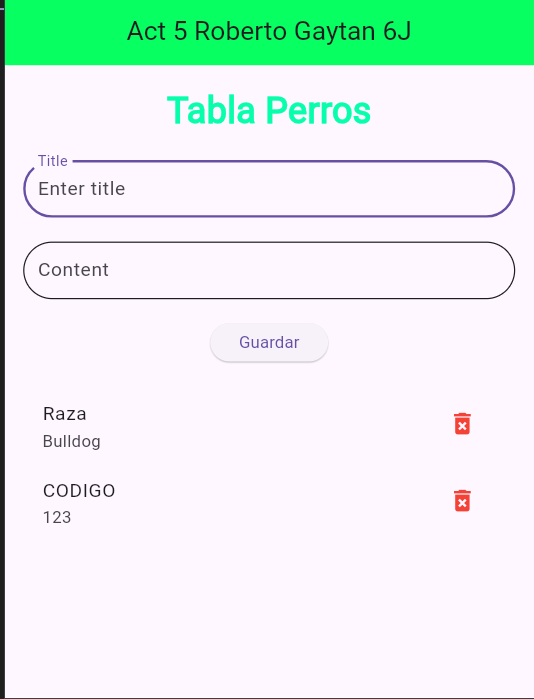
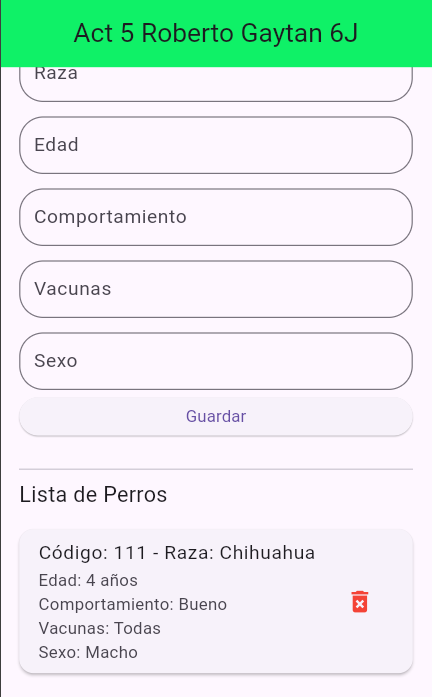
lll

diff --git a/lib/notes.dart b/lib/notes.dart
@@ -5,122 +5,150 @@ class Note extends StatefulWidget {
   const Note({super.key});
 
   @override
-  State<Note> createState() => _perrostate();
+  State<Note> createState() => _PerroState();
 }
 
-class _perrostate extends State<Note> {
-  final titlecontroller = TextEditingController();
-  final contentcontroller = TextEditingController();
+class _PerroState extends State<Note> {
+  final codigoController = TextEditingController();
+  final razaController = TextEditingController();
+  final edadController = TextEditingController();
+  final comportamientoController = TextEditingController();
+  final vacunasController = TextEditingController();
+  final sexoController = TextEditingController();
+
+  void _guardarPerro() async {
+    final codigo = codigoController.text.trim();
+    final raza = razaController.text.trim();
+    final edad = int.tryParse(edadController.text.trim());
+    final comportamiento = comportamientoController.text.trim();
+    final vacunas = vacunasController.text.trim();
+    final sexo = sexoController.text.trim();
+
+    if (codigo.isNotEmpty &&
+        raza.isNotEmpty &&
+        edad != null &&
+        comportamiento.isNotEmpty &&
+        vacunas.isNotEmpty &&
+        sexo.isNotEmpty) {
+      await FirebaseFirestore.instance.collection('perros').add({
+        'codigo': codigo,
+        'raza': raza,
+        'edad': edad,
+        'comportamiento': comportamiento,
+        'vacunas': vacunas,
+        'sexo': sexo,
+        'timestamp': FieldValue.serverTimestamp(),
+      });
+
+      codigoController.clear();
+      razaController.clear();
+      edadController.clear();
+      comportamientoController.clear();
+      vacunasController.clear();
+      sexoController.clear();
+    } else {
+      ScaffoldMessenger.of(context).showSnackBar(
+        const SnackBar(content: Text('Por favor completa todos los campos')),
+      );
+    }
+  }
+
+  Widget _buildTextField({
+    required TextEditingController controller,
+    required String label,
+    TextInputType tipo = TextInputType.text,
+  }) {
+    return Padding(
+      padding: const EdgeInsets.symmetric(vertical: 6.0),
+      child: TextField(
+        controller: controller,
+        keyboardType: tipo,
+        decoration: InputDecoration(
+          labelText: label,
+          border: OutlineInputBorder(borderRadius: BorderRadius.circular(20)),
+        ),
+      ),
+    );
+  }
 
   @override
   Widget build(BuildContext context) {
     return Scaffold(
       appBar: AppBar(
+        title: const Text("Act 5 Roberto Gaytan 6J"),
         backgroundColor: const Color.fromARGB(255, 7, 255, 98),
-        title: Text("Act 5 Roberto Gaytan 6J"),
         centerTitle: true,
       ),
-      body: Padding(
-        padding: const EdgeInsets.all(16.0),
-        child: Column(
-          children: [
-            Text(
-              "Tabla Perros",
-              style: TextStyle(
-                fontSize: 30,
-                fontWeight: FontWeight.bold,
-                color: const Color.fromARGB(255, 7, 255, 172),
-              ),
-            ),
-            SizedBox(height: 20),
-            TextField(
-              controller: titlecontroller,
-              decoration: InputDecoration(
-                labelText: 'Title',
-                hintText: 'Enter title',
-                border: OutlineInputBorder(
-                  borderRadius: BorderRadius.circular(30),
+      body: StreamBuilder<QuerySnapshot>(
+        stream: FirebaseFirestore.instance
+            .collection('perros')
+            .orderBy('timestamp', descending: true)
+            .snapshots(),
+        builder: (context, snapshot) {
+          return ListView(
+            padding: const EdgeInsets.all(16.0),
+            children: [
+              const Text(
+                "Registro de Perros",
+                style: TextStyle(
+                  fontSize: 24,
+                  fontWeight: FontWeight.bold,
+                  color: Color.fromARGB(255, 7, 255, 172),
                 ),
               ),
-            ),
-            SizedBox(height: 20),
-            TextField(
-              controller: contentcontroller,
-              decoration: InputDecoration(
-                labelText: 'Content',
-                hintText: 'Enter content',
-                border: OutlineInputBorder(
-                  borderRadius: BorderRadius.circular(30),
-                ),
+              _buildTextField(controller: codigoController, label: 'Código'),
+              _buildTextField(controller: razaController, label: 'Raza'),
+              _buildTextField(
+                  controller: edadController,
+                  label: 'Edad',
+                  tipo: TextInputType.number),
+              _buildTextField(
+                  controller: comportamientoController, label: 'Comportamiento'),
+              _buildTextField(controller: vacunasController, label: 'Vacunas'),
+              _buildTextField(controller: sexoController, label: 'Sexo'),
+              ElevatedButton(
+                onPressed: _guardarPerro,
+                child: const Text("Guardar"),
               ),
-            ),
-            SizedBox(height: 20),
-            ElevatedButton(
-              onPressed: () {
-                final title = titlecontroller.text.trim();
-                final content = contentcontroller.text.trim();
-
-                if (title.isNotEmpty && content.isNotEmpty) {
-                  FirebaseFirestore.instance.collection('perros').add({
-                    'title': title,
-                    'content': content,
-                    'timestamp': FieldValue.serverTimestamp(),
-                  });
-
-                  titlecontroller.clear();
-                  contentcontroller.clear();
-                } else {
-                  ScaffoldMessenger.of(context).showSnackBar(
-                    SnackBar(content: Text('Por favor ingresa título y contenido')),
+              const SizedBox(height: 20),
+              const Divider(),
+              const Text("Lista de Perros", style: TextStyle(fontSize: 18)),
+              const SizedBox(height: 10),
+              if (!snapshot.hasData)
+                const Center(child: CircularProgressIndicator())
+              else if (snapshot.data!.docs.isEmpty)
+                const Center(child: Text('No hay registros'))
+              else
+                ...snapshot.data!.docs.map((doc) {
+                  return Card(
+                    elevation: 2,
+                    margin: const EdgeInsets.symmetric(vertical: 6),
+                    child: ListTile(
+                      title: Text("Código: ${doc['codigo']} - Raza: ${doc['raza']}"),
+                      subtitle: Column(
+                        crossAxisAlignment: CrossAxisAlignment.start,
+                        children: [
+                          Text("Edad: ${doc['edad']} años"),
+                          Text("Comportamiento: ${doc['comportamiento']}"),
+                          Text("Vacunas: ${doc['vacunas']}"),
+                          Text("Sexo: ${doc['sexo']}"),
+                        ],
+                      ),
+                      trailing: IconButton(
+                        icon: const Icon(Icons.delete_forever, color: Colors.red),
+                        onPressed: () {
+                          FirebaseFirestore.instance
+                              .collection('perros')
+                              .doc(doc.id)
+                              .delete();
+                        },
+                      ),
+                    ),
                   );
-                }
-              },
-              child: Text('Guardar'),
-            ),
-            SizedBox(height: 20),
-
-            // Aquí el truco: Expanded para que ListView tenga espacio limitado
-            Expanded(
-              child: StreamBuilder<QuerySnapshot>(
-                stream: FirebaseFirestore.instance
-                    .collection('perros')
-                    .orderBy('timestamp', descending: true)
-                    .snapshots(),
-                builder: (context, snapshot) {
-                  if (!snapshot.hasData) {
-                    return Center(child: CircularProgressIndicator());
-                  }
-                  final docs = snapshot.data!.docs;
-                  if (docs.isEmpty) {
-                    return Center(child: Text('No hay notas'));
-                  }
-                  return ListView.builder(
-                    itemCount: docs.length,
-                    itemBuilder: (context, index) {
-                      final doc = docs[index];
-                      final title = doc['title'] ?? '';
-                      final content = doc['content'] ?? '';
-
-                      return ListTile(
-                        title: Text(title),
-                        subtitle: Text(content),
-                        trailing: IconButton(
-                          icon: Icon(Icons.delete_forever, color: Colors.red),
-                          onPressed: () {
-                            FirebaseFirestore.instance
-                                .collection('perros')
-                                .doc(doc.id)
-                                .delete();
-                          },
-                        ),
-                      );
-                    },
-                  );
-                },
-              ),
-            ),
-          ],
-        ),
+                }).toList(),
+            ],
+          );
+        },
       ),
     );
   }
